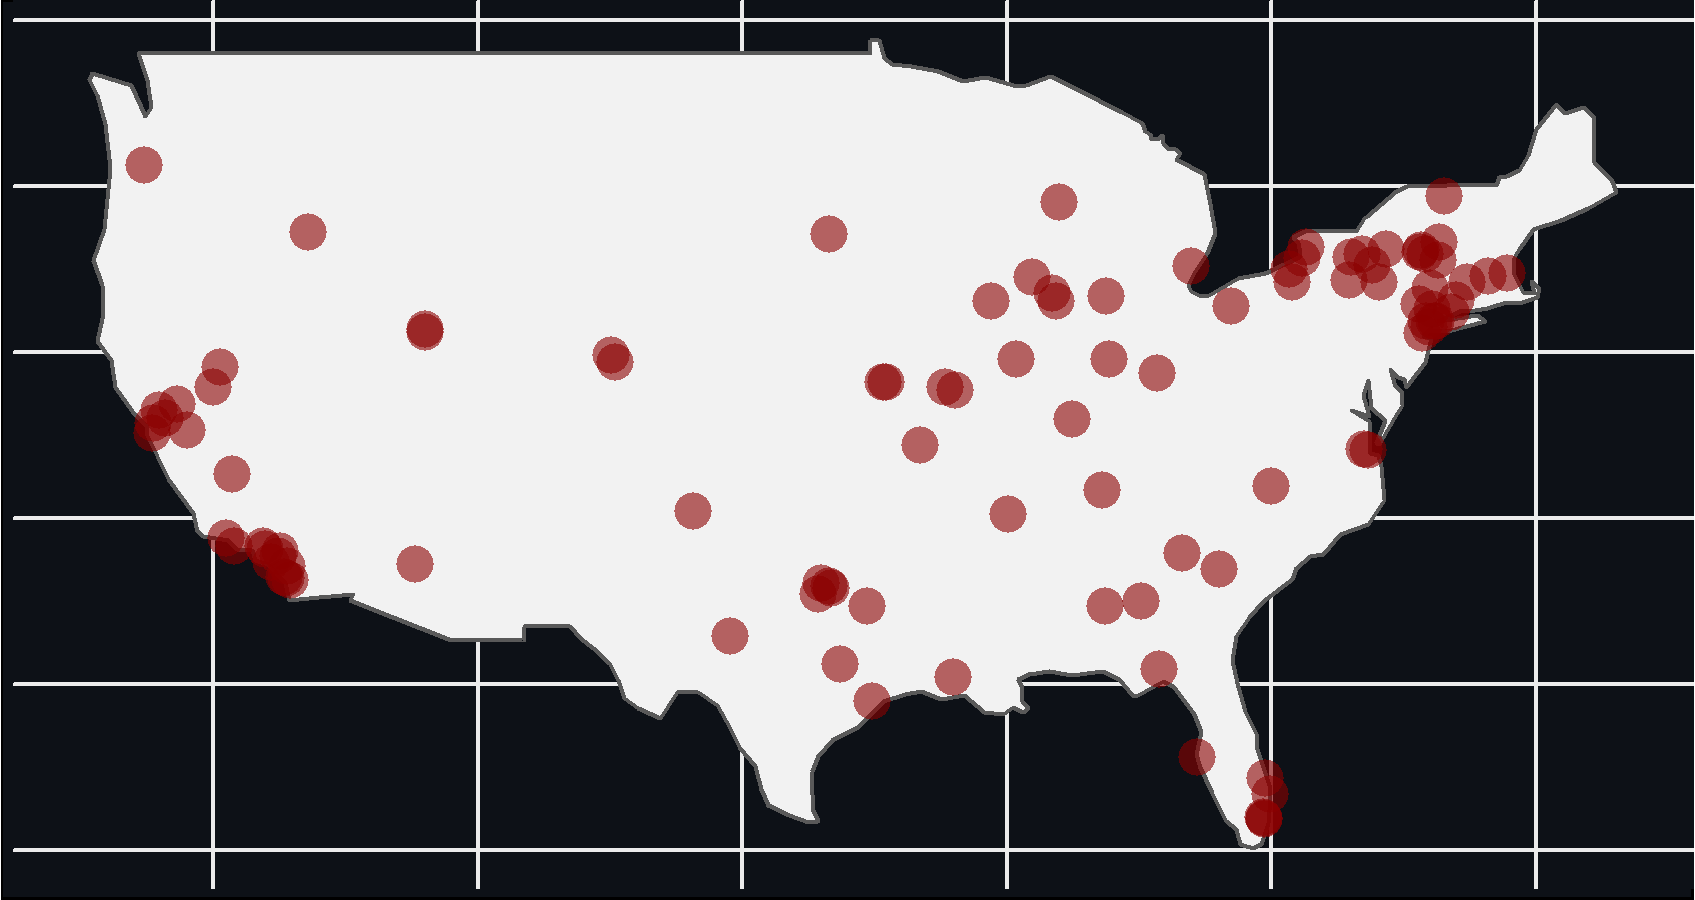
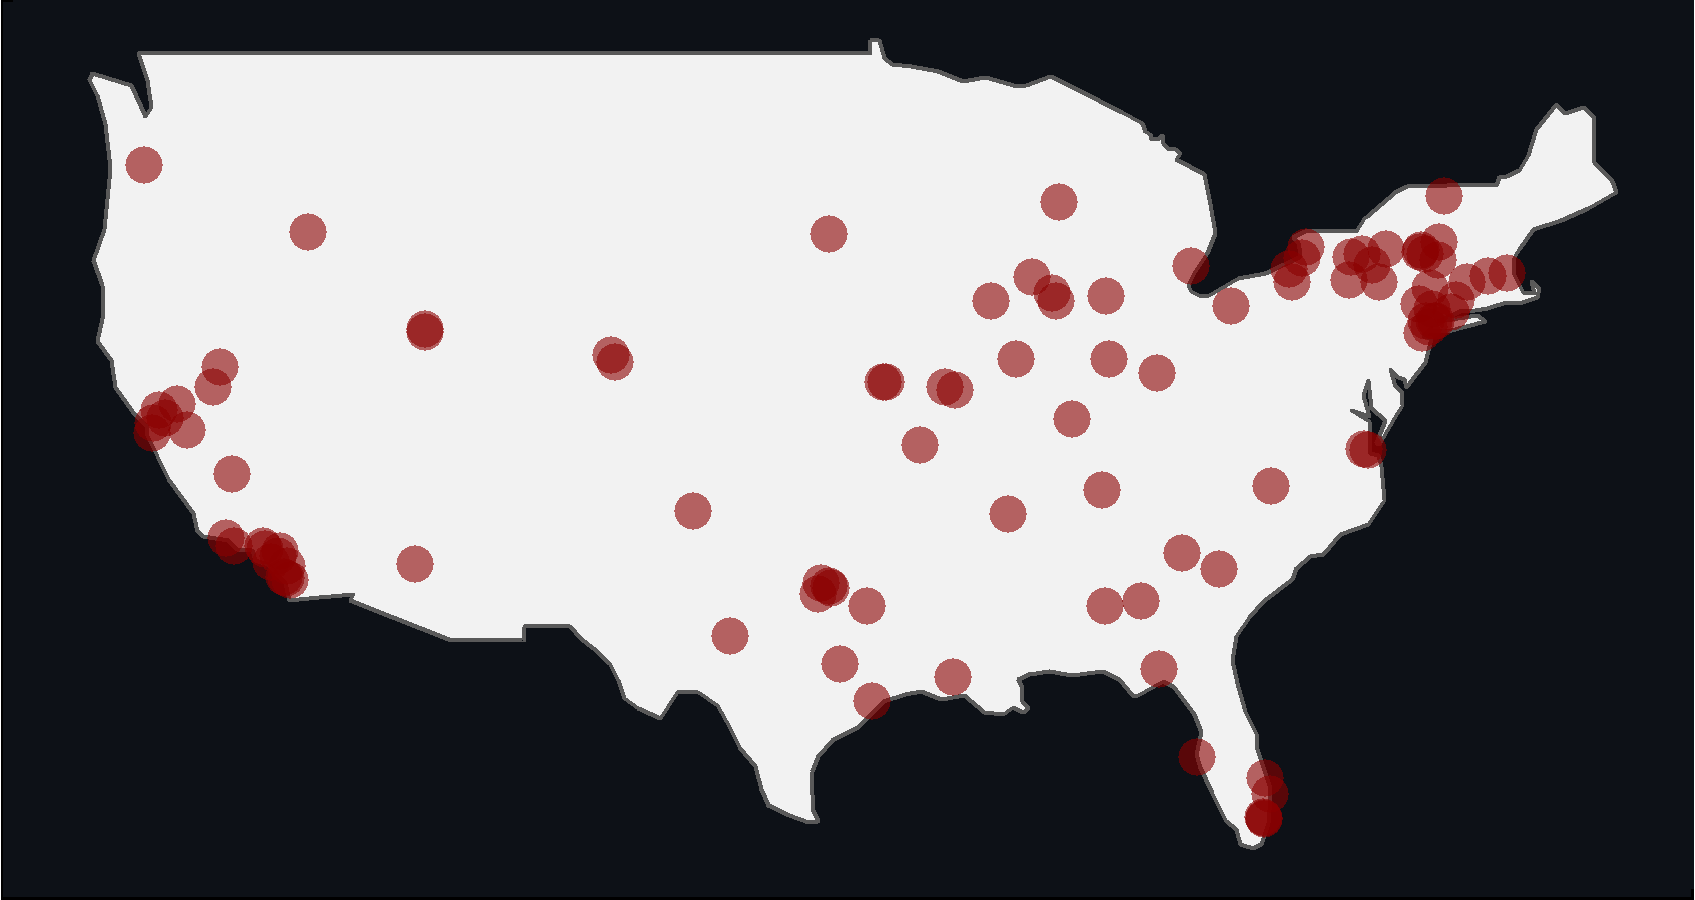
readme

diff --git a/README.md b/README.md
@@ -100,6 +100,8 @@ ggplot() +
                                         color = "#0D1117"),
         axis.text = element_blank(),
         axis.title = element_blank(),
+        panel.grid.major=element_blank(),
+        panel.grid.minor=element_blank(),
         plot.margin=grid::unit(c(0,0,0,0),
                                "mm"),
         plot.background = element_rect(fill = "#0D1117"))
